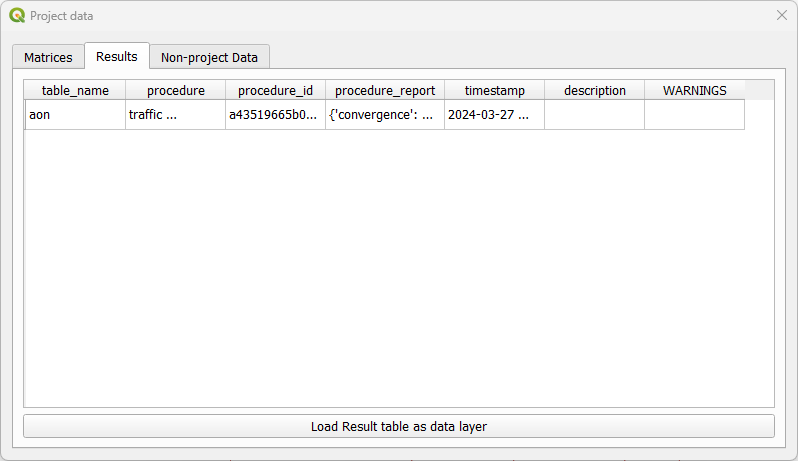
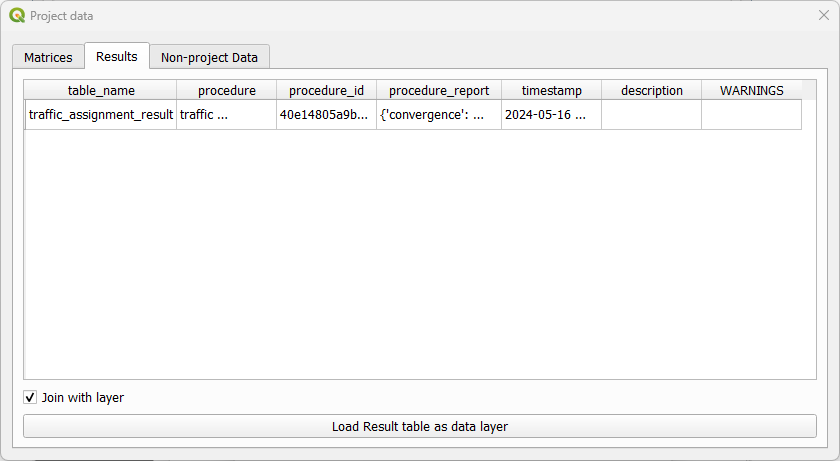
Allows automatic join with results table (#337)
* Connect results table with links

* documentation

* adds test

* .

diff --git a/test/test_load_project_data.py b/test/test_load_project_data.py
@@ -1,0 +1,118 @@
+import pytest
+from os.path import join
+from shutil import copyfile
+from PyQt5.QtCore import Qt
+from qgis.core import QgsProject
+from qgis.PyQt.QtWidgets import QTabWidget
+from qaequilibrae.modules.matrix_procedures.load_project_data import LoadProjectDataDialog
+
+
+@pytest.fixture
+def run_aon(ae_with_project, qtbot):
+    from qaequilibrae.modules.paths_procedures.traffic_assignment_dialog import TrafficAssignmentDialog
+
+    dialog = TrafficAssignmentDialog(ae_with_project)
+
+    assignment_result = "aon"
+    dialog.output_scenario_name.setText(assignment_result)
+    dialog.cob_matrices.setCurrentText("demand.aem")
+
+    dialog.tbl_core_list.selectRow(0)
+    dialog.cob_mode_for_class.setCurrentIndex(0)
+    dialog.ln_class_name.setText("car")
+    dialog.pce_setter.setValue(1.0)
+    dialog.chb_check_centroids.setChecked(False)
+    qtbot.mouseClick(dialog.but_add_class, Qt.LeftButton)
+
+    dialog.cob_skims_available.setCurrentText("free_flow_time")
+    qtbot.mouseClick(dialog.but_add_skim, Qt.LeftButton)
+    dialog.cob_skims_available.setCurrentText("distance")
+    qtbot.mouseClick(dialog.but_add_skim, Qt.LeftButton)
+
+    dialog.cob_vdf.setCurrentText("BPR")
+    dialog.cob_capacity.setCurrentText("capacity")
+    dialog.cob_ffttime.setCurrentText("free_flow_time")
+    dialog.cb_choose_algorithm.setCurrentText("aon")
+    dialog.max_iter.setText("1")
+    dialog.rel_gap.setText("0.001")
+    dialog.tbl_vdf_parameters.cellWidget(0, 1).setText("0.15")
+    dialog.tbl_vdf_parameters.cellWidget(1, 1).setText("4.0")
+
+    dialog.run()
+
+    return ae_with_project
+
+
+def test_no_project(ae, mocker, qtbot):
+    file_func = "qaequilibrae.modules.matrix_procedures.load_project_data.DisplayAequilibraEFormatsDialog"
+    mocker.patch(file_func)
+
+    dialog = LoadProjectDataDialog(ae, False)
+
+    assert QTabWidget.tabText(dialog.tabs, 0) == "Non-project Data"
+
+    qtbot.mouseClick(dialog.but_load_data, Qt.LeftButton)
+    dialog.close()
+
+
+@pytest.mark.parametrize("button_clicked", [True, False])
+def test_project(run_aon, mocker, qtbot, button_clicked):
+    proj = run_aon
+
+    function = "qaequilibrae.modules.matrix_procedures.load_project_data.DisplayAequilibraEFormatsDialog"
+    mocker.patch(function)
+
+    dialog = LoadProjectDataDialog(proj, True)
+
+    assert QTabWidget.tabText(dialog.tabs, 0) == "Matrices"
+    assert QTabWidget.tabText(dialog.tabs, 1) == "Results"
+    assert QTabWidget.tabText(dialog.tabs, 2) == "Non-project Data"
+
+    # It should have different matrices in the folder to update.
+    proj_folder = dialog.project.project_base_path
+    copyfile(join(proj_folder, "matrices/sfalls_skims.omx"), join(proj_folder, "matrices/new_sfskim.omx"))
+
+    qtbot.mouseClick(dialog.but_update_matrices, Qt.LeftButton)
+
+    assert "new_sfskim.omx" in dialog.matrices["file_name"].tolist()
+
+    # Select matrix row to display
+    dialog.list_matrices.selectRow(0)
+    qtbot.mouseClick(dialog.but_load_matrix, Qt.LeftButton)
+
+    assert dialog.matrices["file_name"][0] == "sfalls_skims.omx"
+
+    # Result selection
+    dialog.list_results.selectRow(0)
+    qtbot.mouseClick(dialog.but_load_Results, Qt.LeftButton)
+
+    existing_layers = [vector.name() for vector in QgsProject.instance().mapLayers().values()]
+    assert "aon" in existing_layers
+
+    # assert data from table was properly joined in links layer
+    results_fields = [
+        "matrix_ab",
+        "matrix_ba",
+        "matrix_tot",
+        "Congested_Time_AB",
+        "Congested_Time_BA",
+        "Congested_Time_Max",
+        "Delay_factor_AB",
+        "Delay_factor_BA",
+        "Delay_factor_Max",
+        "VOC_AB",
+        "VOC_BA",
+        "VOC_max",
+        "PCE_AB",
+        "PCE_BA",
+        "PCE_tot",
+    ]
+    if button_clicked:
+        layer = QgsProject.instance().mapLayersByName("links")[0]
+        field_names = [field.name() for field in layer.fields()]
+        for r in results_fields:
+            assert "aon_" + r in field_names
+
+    print(dialog.__dict__)
+
+    dialog.close()

diff --git a/qaequilibrae/modules/matrix_procedures/load_project_data.py b/qaequilibrae/modules/matrix_procedures/load_project_data.py
@@ -7,6 +7,7 @@ from aequilibrae.project.database_connection import database_connection
 import qgis
 from qgis.PyQt import QtWidgets, uic
 from qgis.PyQt.QtWidgets import QAbstractItemView, QTabWidget
+from qgis.core import QgsProject, QgsVectorLayerJoinInfo
 from qaequilibrae.modules.matrix_procedures.display_aequilibrae_formats_dialog import DisplayAequilibraEFormatsDialog
 from qaequilibrae.modules.matrix_procedures.load_result_table import load_result_table
 from qaequilibrae.modules.matrix_procedures.matrix_lister import list_matrices
@@ -45,9 +46,9 @@ class LoadProjectDataDialog(QtWidgets.QDialog, FORM_CLASS):
             self.but_load_Results.clicked.connect(self.load_result_table)
             self.but_load_matrix.clicked.connect(self.display_matrix)
         else:
-            QTabWidget.setTabVisible(self.tabs, 0, False)
-            QTabWidget.setTabVisible(self.tabs, 1, False)
-        
+            QTabWidget.removeTab(self.tabs, 0)
+            QTabWidget.removeTab(self.tabs, 0)
+
         self.but_load_data.clicked.connect(self.display_external_data)
 
     def display_matrix(self):
@@ -91,8 +92,28 @@ class LoadProjectDataDialog(QtWidgets.QDialog, FORM_CLASS):
         if self.results["WARNINGS"][idx[0]] != "":
             return
 
-        _ = load_result_table(self.project.project_base_path, table_name)
-    
+        lyr = load_result_table(self.project.project_base_path, table_name)
+
+        if self.chb_join.isChecked():
+            procedure = self.results.loc[self.results["table_name"] == table_name]["procedure"].values[0]
+            if procedure == "transit assignment":
+                self.link_layer = self.qgs_proj.layers["transit_links"][0]
+            else:
+                self.link_layer = self.qgs_proj.layers["links"][0]
+            rem = [lien.joinLayerId() for lien in self.link_layer.vectorJoins()]
+            for lien_id in rem:
+                self.link_layer.removeJoin(lien_id)
+            QgsProject.instance().addMapLayer(self.link_layer)
+
+            lien = QgsVectorLayerJoinInfo()
+            lien.setJoinFieldName("link_id")
+            lien.setTargetFieldName("link_id")
+            lien.setJoinLayerId(lyr.id())
+            lien.setUsingMemoryCache(True)
+            lien.setJoinLayer(lyr)
+            lien.setPrefix(f"{table_name}_")
+            self.link_layer.addJoin(lien)
+
     def display_external_data(self):
         dlg2 = DisplayAequilibraEFormatsDialog(self.qgs_proj)
         dlg2.show()

diff --git a/test/conftest.py b/test/conftest.py
@@ -1,9 +1,17 @@
 import pytest
+from os.path import join
+from uuid import uuid4
+from shutil import copytree
 from PyQt5.QtCore import QTimer, QVariant
 from PyQt5.QtWidgets import QApplication
 from qgis.core import QgsProject, QgsVectorLayer, QgsField, QgsFeature
 from qaequilibrae.qaequilibrae import AequilibraEMenu
 from qaequilibrae.modules.common_tools import ReportDialog
+
+
+@pytest.fixture
+def folder_path(tmp_path):
+    return join(tmp_path, uuid4().hex)
 
 
 @pytest.fixture(scope="function")
@@ -12,11 +20,12 @@ def ae(qgis_iface) -> AequilibraEMenu:
 
 
 @pytest.fixture(scope="function")
-def ae_with_project(qgis_iface) -> AequilibraEMenu:
+def ae_with_project(qgis_iface, folder_path) -> AequilibraEMenu:
     ae = AequilibraEMenu(qgis_iface)
     from qaequilibrae.modules.menu_actions.load_project_action import _run_load_project_from_path
 
-    _run_load_project_from_path(ae, "test/data/SiouxFalls_project")
+    copytree("test/data/SiouxFalls_project", folder_path)
+    _run_load_project_from_path(ae, folder_path)
     yield ae
     ae.run_close_project()
 
@@ -43,21 +52,23 @@ def timeoutDetector(qgis_iface) -> None:
 
 
 @pytest.fixture(scope="function")
-def pt_project(qgis_iface) -> AequilibraEMenu:
+def pt_project(qgis_iface, folder_path) -> AequilibraEMenu:
     ae = AequilibraEMenu(qgis_iface)
     from qaequilibrae.modules.menu_actions.load_project_action import _run_load_project_from_path
 
-    _run_load_project_from_path(ae, "test/data/coquimbo_project")
+    copytree("test/data/coquimbo_project", folder_path)
+    _run_load_project_from_path(ae, folder_path)
     yield ae
     ae.run_close_project()
 
 
 @pytest.fixture(scope="function")
-def pt_no_feed(qgis_iface) -> AequilibraEMenu:
+def pt_no_feed(qgis_iface, folder_path) -> AequilibraEMenu:
     ae = AequilibraEMenu(qgis_iface)
     from qaequilibrae.modules.menu_actions.load_project_action import _run_load_project_from_path
 
-    _run_load_project_from_path(ae, "test/data/no_pt_feed")
+    copytree("test/data/no_pt_feed", folder_path)
+    _run_load_project_from_path(ae, folder_path)
     yield ae
     ae.run_close_project()
 

diff --git a/qaequilibrae/modules/matrix_procedures/results_lister.py b/qaequilibrae/modules/matrix_procedures/results_lister.py
@@ -1,18 +1,28 @@
 import sqlite3
-from os.path import join
+from os.path import join, isfile
 
 import pandas as pd
+from aequilibrae.utils.db_utils import read_and_close
 from aequilibrae.project.database_connection import database_connection
 
 
 def list_results(project_base_path) -> pd.DataFrame:
-    conn = database_connection(db_type="project_database")
-    df = pd.read_sql("select * from results", conn)
-    conn.close()
+    databases = []
+    with read_and_close(database_connection("network")) as conn:
+        df = pd.read_sql("select * from results", conn)
+        databases.append(df)
+
+    if isfile(join(project_base_path, "public_transport.sqlite")):
+        with read_and_close(database_connection("transit")) as conn:
+            df = pd.read_sql("select * from results", conn)
+            databases.append(df)
+
+    df = pd.concat(databases)
 
     conn = sqlite3.connect(join(project_base_path, "results_database.sqlite"))
     tables = [x[0] for x in conn.execute("SELECT name FROM sqlite_master WHERE type ='table'").fetchall()]
     conn.close()
+
     results = df.assign(WARNINGS="")
     for idx, record in results.iterrows():
         if record.table_name not in tables:

diff --git a/test/test_traffic_assignment.py b/test/test_traffic_assignment.py
@@ -55,7 +55,7 @@ def test_single_class_traffic_assignment(ae_with_project, qtbot):
 
     dialog.run()
 
-    pth = Path("test/data/SiouxFalls_project")
+    pth = Path(dialog.project.project_base_path)
     results = pth / "results_database.sqlite"
     assert isfile(results)
 
@@ -169,7 +169,7 @@ def test_multiclass_traffic_assignment(ae_with_project, qtbot):
         dialog.produce_all_outputs()
 
     # Assert we have a non-null result and that results are actually stored in the file
-    pth = Path("test/data/SiouxFalls_project")
+    pth = Path(dialog.project.project_base_path)
     results = pth / "results_database.sqlite"
     assert isfile(results)
     con = sqlite3.connect(results)

diff --git a/qaequilibrae/modules/menu_actions/load_project_action.py b/qaequilibrae/modules/menu_actions/load_project_action.py
@@ -49,7 +49,7 @@ def update_project_layers(qgis_project):
     # Add transit_tables to layers
     pt_database = join(qgis_project.project.project_base_path, "public_transport.sqlite")
     if exists(pt_database):
-        layers += ["transit_routes", "transit_stops", "transit_pattern_mapping"]
+        layers += ["transit_links", "transit_routes", "transit_stops", "transit_pattern_mapping"]
 
     descrlayout = QVBoxLayout()
     qgis_project.geo_layers_table = QTableWidget()

diff --git a/docs/source/menus_in_detail/pathscomputation.rst b/docs/source/menus_in_detail/pathscomputation.rst
@@ -125,27 +125,20 @@ block flows through centroids for the reason discussed above.
     :align: center
     :alt: Setup assignment
 
+.. _usage-of-results-layer-join:
+
 The result of the traffic assignment we just performed is stored in the results.sqlite
 database within the project folder. It can be easily accessed and loaded by clicking
 **Data > Visualize data**, and a project data window will open. Just click on the
-*Results* tab, select the desired result, and click in the *Load Result table as data layer*
-button at the bottom.
+*Results* tab, select the desired result, let the *Join with layer* option checked,
+and click in the *Load Result table as data layer* button at the bottom. The result table
+layer will be automatically joined with the links layer.
 
-.. image:: ../images/add_layer.png
-    :width: 887
+.. image:: ../images/data_visualize_data_results-v2.png
     :align: center
     :alt: add_layer
 
-Now we can plot the flows we just obtained. You can select the *links* layer and 
-right-click it to open the layer properties window. Go to *Joins*, select the
-fields to join, and press ok.
-
-.. image:: ../images/link_join.png
-    :width: 1449
-    :align: center
-    :alt: link_join
-
-Now we can revisit the instructions above for :ref:`siouxfalls-stacked-bandwidth`
+Now we can revisit the instructions for :ref:`siouxfalls-stacked-bandwidth`
 
 Video tutorial
 ~~~~~~~~~~~~~~
